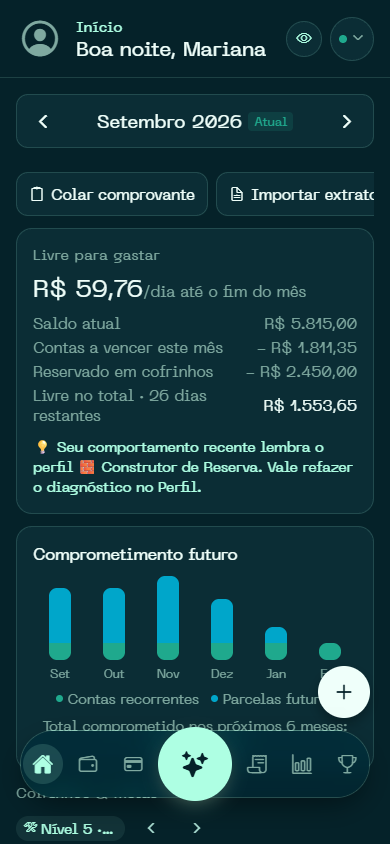
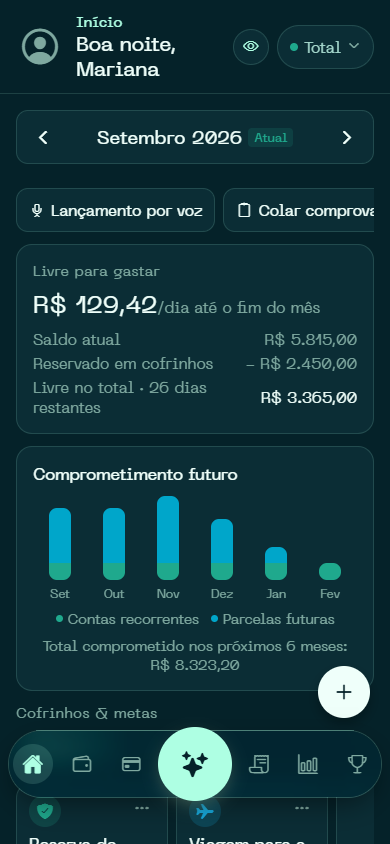
fix(layout): atualizar capturas da landing para regra 20

diff --git a/components/CarrosselTelasApp.tsx b/components/CarrosselTelasApp.tsx
@@ -10,7 +10,7 @@ const fonts = { regular: uiFonts.brandRegular, light: uiFonts.brandLight };
 type Tela = { src: string; rotulo: string; legenda: string };
 
 const TELAS: Tela[] = [
-  { src: '/telas/inicio-mobile.png?v=20260905', rotulo: 'Início', legenda: 'Tela de Início do Grana. no celular, com Livre para Gastar, cofrinhos e comprometimento futuro' },
+  { src: '/telas/inicio-mobile.png?v=20260925', rotulo: 'Início', legenda: 'Tela de Início do Grana. no celular, com Livre para Gastar, cofrinhos e comprometimento futuro' },
   { src: '/telas/lancamentos-mobile.png?v=20260905', rotulo: 'Débito e Pix', legenda: 'Tela de lançamentos do Grana. no celular, com entradas, saídas e busca por categoria' },
   { src: '/telas/credito-mobile.png?v=20260905', rotulo: 'Crédito', legenda: 'Tela de cartões do Grana. no celular, com fatura atual, limite usado e compras parceladas' },
   { src: '/telas/contas-mobile.png?v=20260905', rotulo: 'Boletos', legenda: 'Tela de contas a pagar do Grana. no celular, com vencimento e valor de cada boleto' },

diff --git a/lib/exemplo-landing.ts b/lib/exemplo-landing.ts
@@ -19,9 +19,10 @@
  *   Reservado em cofrinhos        − R$ 2.450,00
  *   Livre no total · 26 dias        R$ 3.365,00   → R$ 129,42/dia
  *
- * ATENÇÃO: as capturas `public/telas/inicio-web.png` e `inicio-mobile.png`
- * ainda mostram a conta antiga (com "Contas a vencer" e R$ 59,76/dia) até
- * serem refeitas no app com a regra nova.
+ * As capturas `public/telas/inicio-web.png` e `inicio-mobile.png`, e as cenas
+ * compostas a partir delas (`public/telas/multiplataforma.webp` e o notebook do
+ * herói), foram refeitas em 25/09/2026 com essa conta, sem a linha "Contas a
+ * vencer".
  *
  * Regra que este arquivo existe para manter: **nenhum componente da landing
  * escreve valor de Livre para Gastar à mão.** Todos importam daqui. Se as

diff --git a/components/PainelWebDestaque.tsx b/components/PainelWebDestaque.tsx
@@ -42,13 +42,13 @@ export default function PainelWebDestaque({ compacto = false }: { compacto?: boo
         : null)}
     >
       <MolduraNavegador
-        src="/telas/inicio-web.png?v=20260905"
+        src="/telas/inicio-web.png?v=20260925"
         legenda="Painel web do Grana. mostrando Livre para Gastar, comprometimento futuro e gastos por categoria de uma conta de exemplo"
         largura={larguraMoldura}
         inclinada={!compacto}
       />
       <AppPressable
-        href="/telas/inicio-web.png?v=20260905"
+        href="/telas/inicio-web.png?v=20260925"
         target="_blank"
         rel="noreferrer"
         accessibilityRole="link"

diff --git a/components/TrilhaPassos.tsx b/components/TrilhaPassos.tsx
@@ -134,7 +134,7 @@ function CenaLugares({ ativo, instantaneo, compacto }: Cena) {
         ]}
       >
         {createElement('img', {
-          src: '/telas/multiplataforma.webp?v=20260917',
+          src: '/telas/multiplataforma.webp?v=20260925',
           alt: 'O Grana. aberto no notebook e no celular, com o mesmo mês e os mesmos valores nos dois',
           width: 960,
           height: 646,

diff --git a/components/NotebookAnimado.tsx b/components/NotebookAnimado.tsx
@@ -218,7 +218,7 @@ export default function NotebookAnimado({ variante = 'fundo' }: Props) {
         },
       })}
       {createElement('img', {
-        src: '/notebook/notebook.webp',
+        src: '/notebook/notebook.webp?v=20260925',
         alt: 'Notebook exibindo o painel do Grana.',
         width: 1403,
         height: 914,
